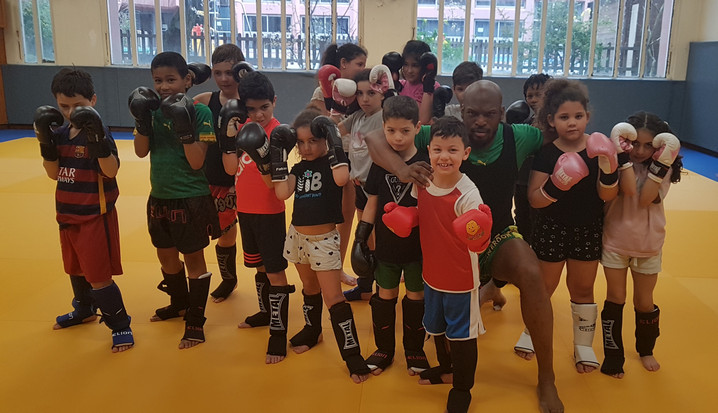
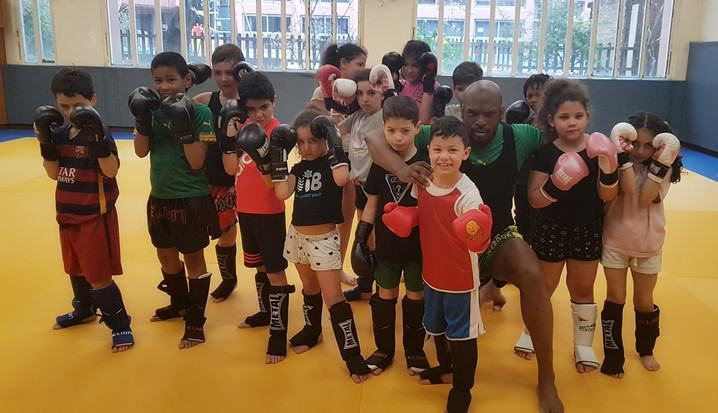
[UPD] Pictures size

diff --git a/fo/templates/fo/home.html b/fo/templates/fo/home.html
@@ -10,7 +10,7 @@
           Elle tire son origine de pratiques martiales ancestrales, notamment le muay boran, et le krabi krabong. <br>
           Ses origines exactes sont incertaines, mais le muay thaï dans sa forme originelle est fondé à des fins martiales, militaires.<br>
       Le Muay thaï fût popularisé au XVème siècle par les 2 fils du roi Sur Muang Ma, et fut appliqué "sur le terrain" par le royaume du Siam (Thaïlande actuelle) notamment face aux envahisseurs birmans.</p>
-  </div>
+    </div>
 
 </main>
 {% endblock %}

diff --git a/fo/templates/fo/course.html b/fo/templates/fo/course.html
@@ -52,7 +52,7 @@
   </div>
 
   <hr class="featurette-divider" style="margin-bottom: 0.8rem;">
-  <p class="lead"> * Tous les cours sont mixtes except un créneau réservé aux femmes</p>
+  <p class="lead"> * Tous les cours sont mixtes excepté un créneau réservé aux femmes</p>
 </div>
 <script src="{% static 'js/auto-scroll.js' %}"></script>
 {% endblock %}

diff --git a/fo/static/my_style.css b/fo/static/my_style.css
@@ -24,11 +24,11 @@ main > .container {
 
 #home {
   background-image:
-    url("img/page1.png");
+    url("img/page1.jpg");
     background-size: cover;
     width: inherit;
-    height: auto;
-    min-height: 600px;
+    height: inherit;
+
 }
 
 .contact {
